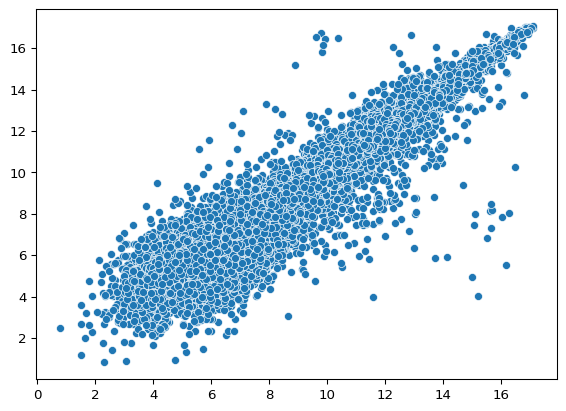
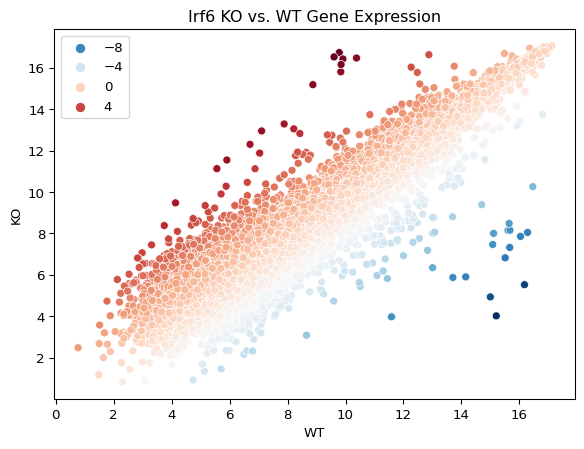
Minor edits

diff --git a/Irf6/Irf6_py.md b/Irf6/Irf6_py.md
@@ -1,6 +1,6 @@
 # Microarray Gene Expression Analysis with Python
-Ahmed Moustafa (amoustafa@aucegypt.edu)
-2023-10-05
+Ahmed Moustafa
+October 5, 2023
 
 - [<span class="toc-section-number">1</span> Importing required
   libraries](#importing-required-libraries)
@@ -21,11 +21,13 @@ Ahmed Moustafa (amoustafa@aucegypt.edu)
     condition](#slicing-the-dataset-by-condition)
   - [<span class="toc-section-number">5.2</span> Gene-wise mean
     expression](#gene-wise-mean-expression)
-  - [<span class="toc-section-number">5.3</span> Scatter
-    plot](#scatter-plot)
+  - [<span class="toc-section-number">5.3</span> Scatter plot using
+    Matplotlib](#scatter-plot-using-matplotlib)
   - [<span class="toc-section-number">5.4</span> Calculating the
     fold-change](#calculating-the-fold-change)
-  - [<span class="toc-section-number">5.5</span> Historgram of the
+  - [<span class="toc-section-number">5.5</span> Scatter plot using
+    Seaborn](#scatter-plot-using-seaborn)
+  - [<span class="toc-section-number">5.6</span> Historgram of the
     fold-change](#historgram-of-the-fold-change)
 - [<span class="toc-section-number">6</span> Statistical
   significance](#statistical-significance)
@@ -153,48 +155,48 @@ data2.hist()
 plt.boxplot(data2)
 ```
 
-    {'whiskers': [<matplotlib.lines.Line2D at 0x139571e10>,
-      <matplotlib.lines.Line2D at 0x13e9e5f10>,
-      <matplotlib.lines.Line2D at 0x13e9cf150>,
-      <matplotlib.lines.Line2D at 0x13e9ccc90>,
-      <matplotlib.lines.Line2D at 0x13e9666d0>,
-      <matplotlib.lines.Line2D at 0x13e9655d0>,
-      <matplotlib.lines.Line2D at 0x13e9dcc90>,
-      <matplotlib.lines.Line2D at 0x13e9dda50>,
-      <matplotlib.lines.Line2D at 0x13e9d34d0>,
-      <matplotlib.lines.Line2D at 0x13e9d2bd0>,
-      <matplotlib.lines.Line2D at 0x13e9c1d10>,
-      <matplotlib.lines.Line2D at 0x13e9c1750>],
-     'caps': [<matplotlib.lines.Line2D at 0x13e9e6f90>,
-      <matplotlib.lines.Line2D at 0x13e9e6550>,
-      <matplotlib.lines.Line2D at 0x13e9ce510>,
-      <matplotlib.lines.Line2D at 0x13e9cd990>,
-      <matplotlib.lines.Line2D at 0x13e967590>,
-      <matplotlib.lines.Line2D at 0x13e964890>,
-      <matplotlib.lines.Line2D at 0x13e9dc990>,
-      <matplotlib.lines.Line2D at 0x13e9dd390>,
-      <matplotlib.lines.Line2D at 0x13e9d1d50>,
-      <matplotlib.lines.Line2D at 0x1392019d0>,
-      <matplotlib.lines.Line2D at 0x13e9c0310>,
-      <matplotlib.lines.Line2D at 0x13e9c2810>],
-     'boxes': [<matplotlib.lines.Line2D at 0x1394eea10>,
-      <matplotlib.lines.Line2D at 0x13e9ced90>,
-      <matplotlib.lines.Line2D at 0x13e966c10>,
-      <matplotlib.lines.Line2D at 0x13e9dc450>,
-      <matplotlib.lines.Line2D at 0x13e9d3750>,
-      <matplotlib.lines.Line2D at 0x13e9c3a10>],
-     'medians': [<matplotlib.lines.Line2D at 0x13e9cd410>,
-      <matplotlib.lines.Line2D at 0x13e9646d0>,
-      <matplotlib.lines.Line2D at 0x13e967510>,
-      <matplotlib.lines.Line2D at 0x13e9de4d0>,
-      <matplotlib.lines.Line2D at 0x13e9d08d0>,
-      <matplotlib.lines.Line2D at 0x13ea26b50>],
-     'fliers': [<matplotlib.lines.Line2D at 0x13e88f810>,
-      <matplotlib.lines.Line2D at 0x13e91cb10>,
-      <matplotlib.lines.Line2D at 0x13e9cd010>,
-      <matplotlib.lines.Line2D at 0x13e967290>,
-      <matplotlib.lines.Line2D at 0x13e8c89d0>,
-      <matplotlib.lines.Line2D at 0x13ea256d0>],
+    {'whiskers': [<matplotlib.lines.Line2D at 0x13ffd1990>,
+      <matplotlib.lines.Line2D at 0x13ffd2850>,
+      <matplotlib.lines.Line2D at 0x14cb101d0>,
+      <matplotlib.lines.Line2D at 0x14cb12310>,
+      <matplotlib.lines.Line2D at 0x1754d1d90>,
+      <matplotlib.lines.Line2D at 0x1754d37d0>,
+      <matplotlib.lines.Line2D at 0x1754bc550>,
+      <matplotlib.lines.Line2D at 0x1754bd390>,
+      <matplotlib.lines.Line2D at 0x13ccc7950>,
+      <matplotlib.lines.Line2D at 0x13ccc6790>,
+      <matplotlib.lines.Line2D at 0x13caa9b90>,
+      <matplotlib.lines.Line2D at 0x13caa8290>],
+     'caps': [<matplotlib.lines.Line2D at 0x13ffd0c10>,
+      <matplotlib.lines.Line2D at 0x14cb12ad0>,
+      <matplotlib.lines.Line2D at 0x14cb12d50>,
+      <matplotlib.lines.Line2D at 0x1754d0150>,
+      <matplotlib.lines.Line2D at 0x1754d3590>,
+      <matplotlib.lines.Line2D at 0x1754beed0>,
+      <matplotlib.lines.Line2D at 0x1754bfb10>,
+      <matplotlib.lines.Line2D at 0x13ccc5650>,
+      <matplotlib.lines.Line2D at 0x13ccc7750>,
+      <matplotlib.lines.Line2D at 0x14c28fdd0>,
+      <matplotlib.lines.Line2D at 0x13caabe90>,
+      <matplotlib.lines.Line2D at 0x13caa9110>],
+     'boxes': [<matplotlib.lines.Line2D at 0x13ffd0cd0>,
+      <matplotlib.lines.Line2D at 0x14cb10950>,
+      <matplotlib.lines.Line2D at 0x1754d2e10>,
+      <matplotlib.lines.Line2D at 0x1754be050>,
+      <matplotlib.lines.Line2D at 0x13ccc5850>,
+      <matplotlib.lines.Line2D at 0x13caa8f90>],
+     'medians': [<matplotlib.lines.Line2D at 0x14cb11310>,
+      <matplotlib.lines.Line2D at 0x1754d3050>,
+      <matplotlib.lines.Line2D at 0x1754bfe50>,
+      <matplotlib.lines.Line2D at 0x13ccc50d0>,
+      <matplotlib.lines.Line2D at 0x13caab390>,
+      <matplotlib.lines.Line2D at 0x13fbdb490>],
+     'fliers': [<matplotlib.lines.Line2D at 0x14c29b9d0>,
+      <matplotlib.lines.Line2D at 0x13ffd05d0>,
+      <matplotlib.lines.Line2D at 0x14cb10b10>,
+      <matplotlib.lines.Line2D at 0x14c275b90>,
+      <matplotlib.lines.Line2D at 0x14c50b250>,
+      <matplotlib.lines.Line2D at 0x14c508f90>],
      'means': []}
 
 ![](Irf6_py_files/figure-commonmark/cell-8-output-2.png)
@@ -343,27 +345,15 @@ wt_means.head()
     1415674_a_at    11.666488
     dtype: float64
 
-### Scatter plot
-
-#### Using Matplotlib
+### Scatter plot using Matplotlib
 
 ``` python
 plt.scatter(x = wt_means, y = ko_means)
 ```
 
-    <matplotlib.collections.PathCollection at 0x13f0dfb10>
+    <matplotlib.collections.PathCollection at 0x14c6ace50>
 
 ![](Irf6_py_files/figure-commonmark/cell-16-output-2.png)
-
-#### Using Seaborn
-
-``` python
-sns.scatterplot(x = wt_means, y = ko_means)
-```
-
-    <Axes: >
-
-![](Irf6_py_files/figure-commonmark/cell-17-output-2.png)
 
 ### Calculating the fold-change
 
@@ -384,6 +374,19 @@ Note:
 
 - **+ve** fold-change → **Up**-regulation ↑
 - **-ve** fold-change → **Down**-regulation ↓
+
+### Scatter plot using Seaborn
+
+``` python
+sns.scatterplot(x = wt_means, y = ko_means, hue = fold_change, palette='RdBu_r')
+plt.xlabel('WT')
+plt.ylabel('KO')
+plt.title('Irf6 KO vs. WT Gene Expression')
+```
+
+    Text(0.5, 1.0, 'Irf6 KO vs. WT Gene Expression')
+
+![](Irf6_py_files/figure-commonmark/cell-18-output-2.png)
 
 ### Historgram of the fold-change
 
@@ -484,7 +487,7 @@ sns.histplot (-np.log10(t_stat_df['p_value']))
 plt.scatter (x = fold_change, y = -np.log10(t_stat_df['p_value']))
 ```
 
-    <matplotlib.collections.PathCollection at 0x138ffc0d0>
+    <matplotlib.collections.PathCollection at 0x14c636510>
 
 ![](Irf6_py_files/figure-commonmark/cell-24-output-2.png)
 
